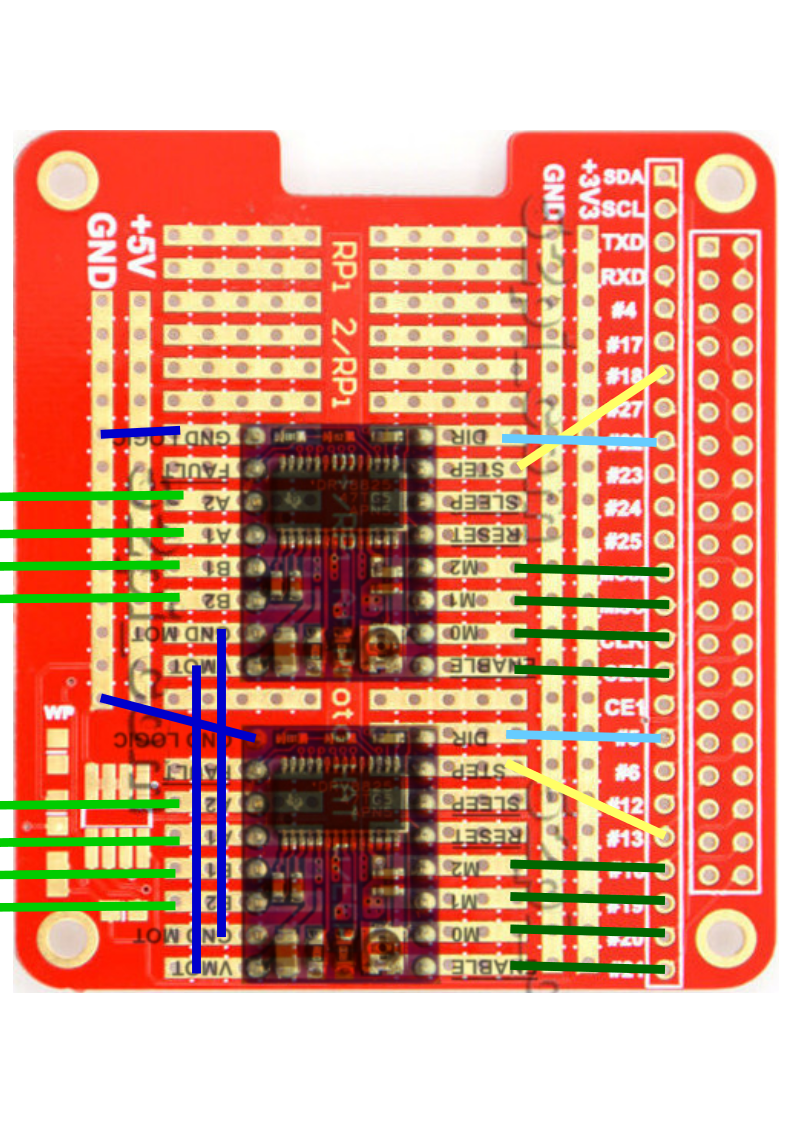
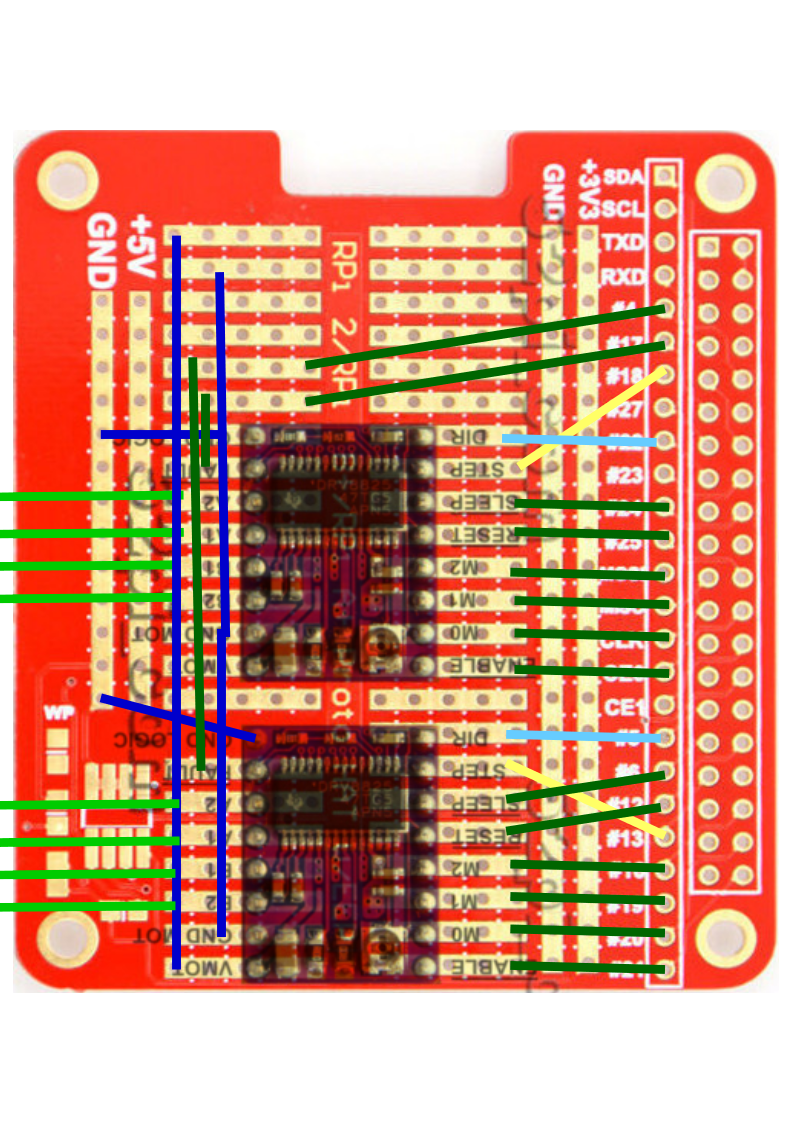
drv8825 ajustement

diff --git a/ramps.py b/ramps.py
@@ -201,7 +201,7 @@ class AxisDriver(axis):
 		self.plate=gear['pinion']
 		self.FullTurnSteps=self.plate*self.stepsPerRevolution/self.corona
 		self.stepsRest=0
-		self.maxPPS=engine['maxPPS']
+		self.maxPPS=engine['maxPPSbase']*gear['microstep']
 		self.pulseWidth=1./float(self.maxPPS)
 		self.timestepMax=self.pulseWidth*10
 		self.timestepMin=self.pulseWidth*5
@@ -365,6 +365,8 @@ class AxisDriver(axis):
 class mount:
 	def __init__(self):
 		simulation=False
+		import pigpio
+		pi=pigpio.pi(servers['pigpio'])
 		if simulation:
 			self.axis1=axis('RA')
 			self.axis2=axis('DEC')
@@ -375,25 +377,74 @@ class mount:
 			18  PWM channel 0  All models
 			19  PWM channel 1  All models but A and B
 			CHOSE DIFERENT CHANNELS FOR RA AND DEC !!
+
+			M2 M1 M0
+			0  0  0 Full step (2-phase excitation) with 71% current
+			0  0  1 1/2 step (1-2 phase excitation)
+			0  1  0 1/4 step (W1-2 phase excitation)
+			0  1  1 8 microsteps/step
+			1  0  0 16 microsteps/step
+			1  0  1 32 microsteps/step
+			1  1  0 32 microsteps/step
+			1  1  1 32 microsteps/step
+
+			RESET=HIGH DEVICE ENABLE
+			SLEEP=HIGH DEVICE ENABLE
+			ENABLE=LOW DEVICE ENABLE
 			'''
 			RA_STEP_PIN=13
 			RA_DIR_PIN=5
 			RA_ENABLE_PIN=21
+			RA_RESET_PIN=12
+			RA_SLEEP_PIN=6
 			RA_M0_PIN=20
 			RA_M1_PIN=19
 			RA_M2_PIN=16
+		
 
 			DEC_STEP_PIN=18
 			DEC_DIR_PIN=22
 			DEC_ENABLE_PIN=8
+			DEC_RESET_PIN=25
+			DEC_SLEEP_PIN=24
 			DEC_M0_PIN=11
 			DEC_M1_PIN=9
 			DEC_M2_PIN=10
 
 			self.axis1=AxisDriver('RA',RA_STEP_PIN,RA_DIR_PIN)
 			self.axis1.setMicrostepPIN(RA_ENABLE_PIN,RA_M0_PIN,RA_M1_PIN,RA_M2_PIN)
+
+			pi.set_mode(RA_M2_PIN, pigpio.OUTPUT)
+			pi.set_mode(RA_M1_PIN, pigpio.OUTPUT)
+			pi.set_mode(RA_M0_PIN, pigpio.OUTPUT)
+			pi.write(RA_M2_PIN, False)
+			pi.write(RA_M1_PIN, True)
+			pi.write(RA_M0_PIN,True)
+
+			pi.set_mode(RA_RESET_PIN, pigpio.OUTPUT)
+			pi.set_mode(RA_SLEEP_PIN, pigpio.OUTPUT)
+			pi.set_mode(RA_ENABLE_PIN, pigpio.OUTPUT)
+			pi.write(RA_RESET_PIN, True)
+			pi.write(RA_SLEEP_PIN, True)
+			pi.write(RA_ENABLE_PIN,False)
+
 			self.axis2=AxisDriver('DEC',DEC_STEP_PIN,DEC_DIR_PIN)
 			self.axis2.setMicrostepPIN(DEC_ENABLE_PIN,DEC_M0_PIN,DEC_M1_PIN,DEC_M2_PIN)
+
+			pi.set_mode(DEC_M2_PIN, pigpio.OUTPUT)
+			pi.set_mode(DEC_M1_PIN, pigpio.OUTPUT)
+			pi.set_mode(DEC_M0_PIN, pigpio.OUTPUT)
+			pi.write(DEC_M2_PIN, False)
+			pi.write(DEC_M1_PIN, True)
+			pi.write(DEC_M0_PIN,True)
+
+
+			pi.set_mode(DEC_RESET_PIN, pigpio.OUTPUT)
+			pi.set_mode(DEC_SLEEP_PIN, pigpio.OUTPUT)
+			pi.set_mode(DEC_ENABLE_PIN, pigpio.OUTPUT)
+			pi.write(DEC_RESET_PIN,True)
+			pi.write(DEC_SLEEP_PIN,True)
+			pi.write(DEC_ENABLE_PIN,False)
 
 
 		self.run()

diff --git a/smokeTest.py b/smokeTest.py
@@ -92,7 +92,7 @@ def costellations():
 		    	#sock.sendall(':Q#')
 			sock.send(':MS#')
 			data = recv()
-	    		time.sleep(5)	
+	    		time.sleep(10)	
 
 		finally:
 			print >>sys.stderr, 'closing socket'
